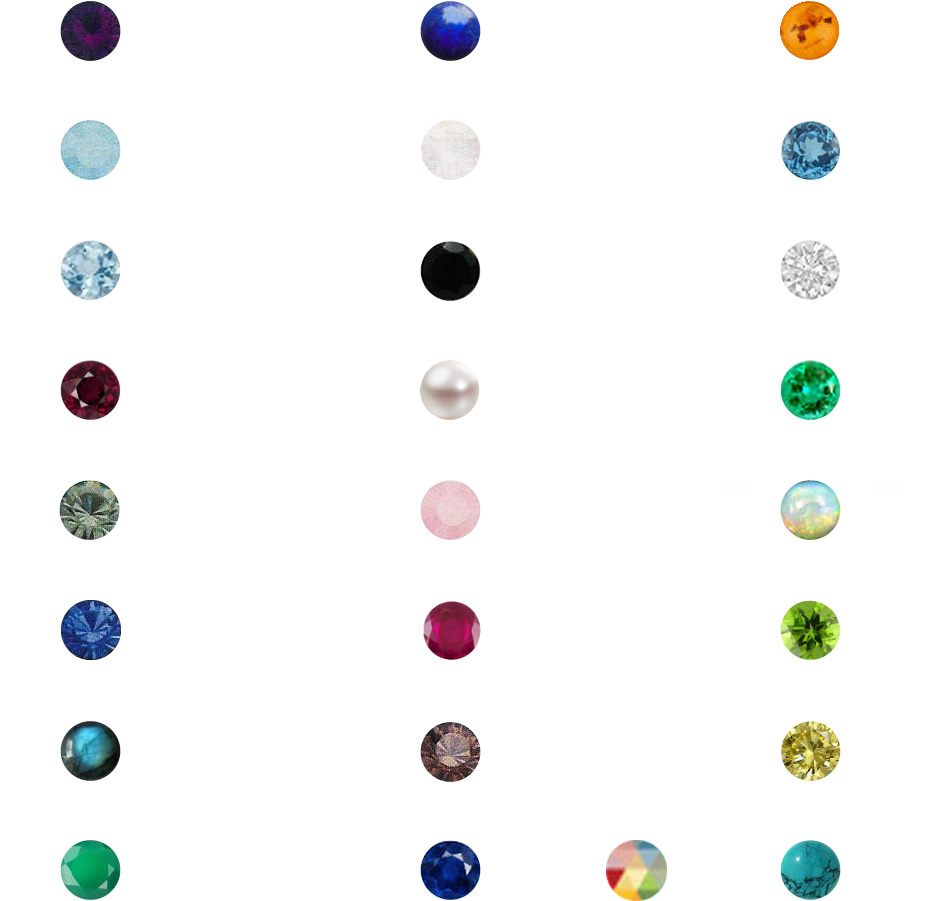
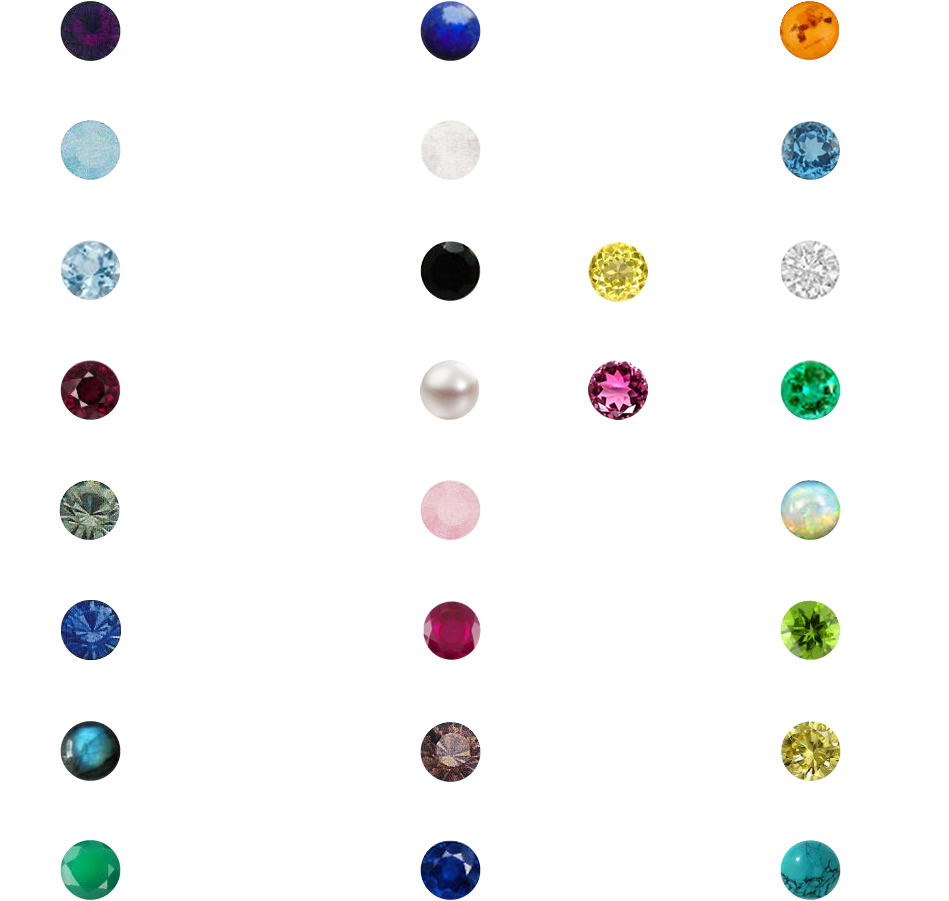
Adding additional stones

Changed region(s): [[0.6417, 0.9323, 0.7028, 1.0], [0.6112, 0.404, 0.7028, 0.4661], [0.6112, 0.2486, 0.7028, 0.3418]]

diff --git a/skin/frontend/juvi/default/css/juvi.css b/skin/frontend/juvi/default/css/juvi.css
@@ -1126,6 +1126,10 @@ img.mfp-img {
   background-position: -339px -269px !important; }
 #configurable_swatch_stone_type.configurable-swatch-list #option108 {
   background-position: -339px -323px !important; }
+#configurable_swatch_stone_type.configurable-swatch-list #option116 {
+  background-position: -253px -108px !important; }
+#configurable_swatch_stone_type.configurable-swatch-list #option117 {
+  background-position: -253px -161px !important; }
 
 #configurable_swatch_stone_type li.out-of-stock {
   pointer-events: none; }

diff --git a/skin/frontend/juvi/default/scss/_productview.scss b/skin/frontend/juvi/default/scss/_productview.scss
@@ -453,6 +453,14 @@ img.mfp-img {
 	#option108 {
 		background-position: -339px -323px !important;
 	}
+	// Lemon Quartz
+	#option116 {
+		background-position: -253px -108px !important;
+	}
+	// Pink Tourmaline
+	#option117 {
+		background-position: -253px -161px !important;
+	}
 }
 // Out of stock fix 
 #configurable_swatch_stone_type li.out-of-stock {
